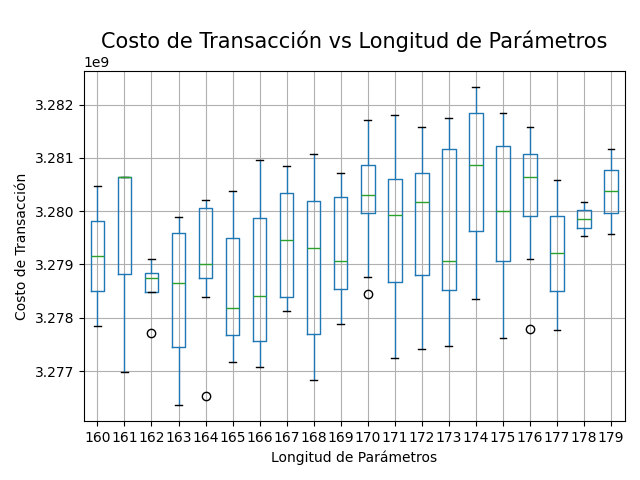
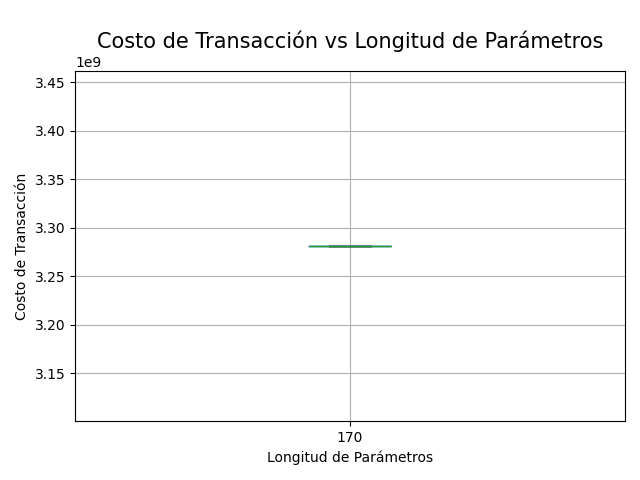
me genero los graficos de post, no de get

diff --git a/API/stress_testing.js b/API/stress_testing.js
@@ -51,6 +51,16 @@ async function getRole(publicAddress) {
     }
 }
 
+// Función para hacer una solicitud GET a /has_permission/:granter/:grantee
+async function hasPermission(granter, grantee) {
+    try {
+        const response = await axios.get(`${FULL_URL}/has_permission/${granter}/${grantee}`);
+        return response.data;
+    } catch (error) {
+        console.error(`Error obteniendo permiso: ${error.message}`);
+    }
+}
+
 // Función para obtener la lista de AccountIds desde el archivo txt
 function getUserAccountsFromFile() {
     try {
@@ -83,6 +93,38 @@ async function runGetRoleTest() {
             console.error(`Error al obtener el rol para ${accountId}: ${error.message}`);
         }
     }
+}
+
+// Función para generar datos de prueba para hasPermission
+function generatePermissionTestData() {
+    // Obtener dos cuentas de AccountIds.txt
+    const accounts = getUserAccountsFromFile();
+    if (accounts.length < 2) {
+        console.log('No hay suficientes usuarios para probar permisos.');
+        return null;
+    }
+    const granter = accounts[Math.floor(Math.random() * accounts.length)];
+    let grantee = accounts[Math.floor(Math.random() * accounts.length)];
+
+    // Asegurarse de que granter y grantee no sean iguales
+    while (granter === grantee) {
+        grantee = accounts[Math.floor(Math.random() * accounts.length)];
+    }
+
+    return { granter, grantee };
+}
+
+// Función para ejecutar pruebas de hasPermission
+async function runHasPermissionTest() {
+    console.log('Ejecutando prueba de hasPermission...');
+    const totalTransactions = parseInt(TOTAL_REQUESTS);
+    for (let i = 0; i < totalTransactions; i++) {
+        const data = generatePermissionTestData();
+        if (!data) break;
+        console.log(`Solicitando permiso de ${data.granter} a ${data.grantee}`);
+        await hasPermission(data.granter, data.grantee);
+    }
+    console.log('Prueba de hasPermission completada');
 }
 
 // Prueba secuencial (las solicitudes se realizan una por una)
@@ -166,7 +208,8 @@ function promptUserForEndpoint() {
         rl.question(`Selecciona el endpoint para testear: 
 1) POST /create_user_with_dynamic_gas
 2) GET /role
-3) ALL
+3) GET /has_permission
+4) ALL
 Selecciona la opción: `, (answer) => {
             rl.close();
             switch (answer) {
@@ -177,6 +220,9 @@ Selecciona la opción: `, (answer) => {
                     resolve('get_role');
                     break;
                 case '3':
+                    resolve('has_permission');
+                    break;
+                case '4':
                     resolve('ALL');
                     break;
                 default:
@@ -194,8 +240,11 @@ Selecciona la opción: `, (answer) => {
     if (endpoint === 'ALL') {
         await runSequentialTest('create_user_with_dynamic_gas');
         await runGetRoleTest(); // Ejecutar la prueba de get_role
+        await runHasPermissionTest();
     } else if (endpoint === 'get_role') {
         await runGetRoleTest();
+    } else if (endpoint === 'has_permission') {
+        await runHasPermissionTest();
     } else {
         switch (MODE) {
             case 'sequential':

diff --git a/API/server.js b/API/server.js
@@ -598,6 +598,34 @@ app.post('/create_user_with_dynamic_gas', async (req, res) => {
     }
 });
 
+// Endpoint para verificar si un permiso existe entre dos usuarios
+app.get('/has_permission/:granter/:grantee', async (req, res) => {
+    const { granter, grantee } = req.params;
+
+    try {
+        const granterAccountId = api.createType('AccountId', granter);
+        const granteeAccountId = api.createType('AccountId', grantee);
+
+        const gasLimit = api.registry.createType('WeightV2', {
+            refTime: api.registry.createType('Compact<u64>', 10000000000),
+            proofSize: api.registry.createType('Compact<u64>', 10000000)
+        });
+
+        const { output } = await contract.query.hasPermission(granterAccountId, { value: 0, gasLimit }, granterAccountId, granteeAccountId);
+
+        if (output) {
+            const hasPermission = output.toHuman();
+            res.status(200).json({ hasPermission });
+        } else {
+            res.status(404).send('No se pudo obtener el permiso');
+        }
+
+    } catch (error) {
+        console.error('Error al consultar el permiso:', error);
+        res.status(500).send(`Error al consultar el permiso: ${error.message}`);
+    }
+});
+
 // Iniciar el servidor
 init().then(() => {
     const host = process.env.HOST || '0.0.0.0';

diff --git a/API/graphs/graph_maker.py b/API/graphs/graph_maker.py
@@ -68,6 +68,8 @@ def calculate_transaction_cost(entry):
     proofSize = entry.get('proofSize', '0')
     refTime = float(refTime) if refTime != 'N/A' else 0.0
     proofSize = float(proofSize) if proofSize != 'N/A' else 0.0
+    if entry.get('method') == 'GET':
+        return 0.0
     return refTime + proofSize
 
 def parse_data(data):
@@ -81,8 +83,8 @@ def parse_data(data):
             continue
 
         try:
-            # Solo procesar entradas con transactionSuccess válido
-            if entry.get('transactionSuccess') == 'Yes':
+            # Procesar entradas con 'transactionSuccess' == 'Yes' o método 'GET'
+            if entry.get('transactionSuccess') == 'Yes' or entry.get('method') == 'GET':
                 # Validar que los campos requeridos existan y no sean None
                 required_fields = ['time', 'duration', 'cpuUsageStart', 'cpuUsageEnd',
                                    'ramUsageStart', 'ramUsageEnd', 'testType', 'method',
@@ -119,7 +121,7 @@ def parse_data(data):
                 }
                 parsed_data.append(parsed_entry)
             else:
-                print(f"Entrada omitida (transactionSuccess != Yes): {entry}")
+                print(f"Entrada omitida (transactionSuccess != Yes y método no es GET): {entry}")
         except Exception as e:
             print(f"Error procesando entrada: {entry}")
             print(f"Error detallado: {str(e)}")
